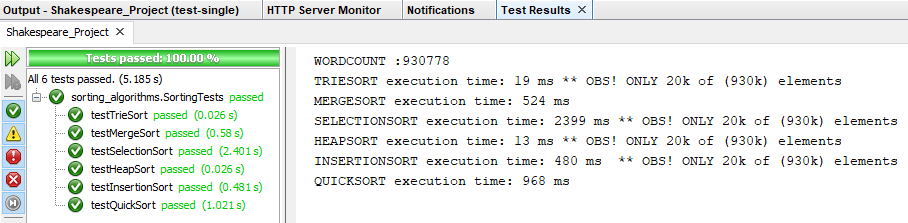
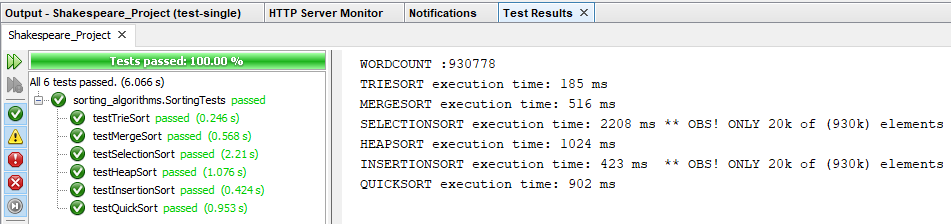
updated readme, screenshot & changed heap and trie sorts to sort complete works

diff --git a/test/sorting_algorithms/SortingTests.java b/test/sorting_algorithms/SortingTests.java
@@ -73,7 +73,7 @@ public class SortingTests {
         System.out.println("INSERTIONSORT execution time: " + (after - before) + " ms  ** OBS! ONLY 20k of (930k) elements");
         assertTrue(this.isSorted(test));
     }
-    
+
     /**
      * Test of QuickSort
      */
@@ -86,25 +86,27 @@ public class SortingTests {
         System.out.println("SELECTIONSORT execution time: " + (after - before) + " ms ** OBS! ONLY 20k of (930k) elements");
         assertTrue(this.isSorted(wordsCopy));
     }
-    
+
     @Test
     public void testHeapSort() {
-        String[] wordsCopy = Arrays.copyOfRange(words.clone(), 0, 20000);
+        String[] wordsCopy = words.clone();
         long before = System.currentTimeMillis();
         HeapSort.sort(wordsCopy);
         long after = System.currentTimeMillis();
-        System.out.println("HEAPSORT execution time: " + (after - before) + " ms ** OBS! ONLY 20k of (930k) elements");
+        System.out.println("HEAPSORT execution time: " + (after - before) + " ms");
+//        System.out.println("HEAPSORT execution time: " + (after - before) + " ms ** OBS! ONLY 20k of (930k) elements");
         assertTrue(this.isSorted(wordsCopy));
     }
-    
+
     @Test
     public void testTrieSort() {
-        String[] wordsCopy = Arrays.copyOfRange(words.clone(), 0, 20000);
+        String[] wordsCopy = words.clone();
         TrieSort ts = new TrieSort();
         long before = System.currentTimeMillis();
         String[] wordsSorted = ts.sort(wordsCopy);
         long after = System.currentTimeMillis();
-        System.out.println("TRIESORT execution time: " + (after - before) + " ms ** OBS! ONLY 20k of (930k) elements");
+        System.out.println("TRIESORT execution time: " + (after - before) + " ms");
+//        System.out.println("TRIESORT execution time: " + (after - before) + " ms ** OBS! ONLY 20k of (930k) elements");
         assertTrue(this.isSorted(wordsSorted));
     }
 

diff --git a/README.md b/README.md
@@ -6,7 +6,7 @@ https://datsoftlyngby.github.io/soft2020spring/resources/d34f80c6-01-miniproject
 
 Executing SortingTests.java that demo's our Triesort, Mergesort, Selectionsort, Heapsort, Insertionsort and Quicksort algorithms, when used to sort Shakespeare’s complete works.
 
-Note that Triesort, SelectionSort, Heapsort and Insertionsort results are for the sorting of a subset of words (20k of 930k), as they are very slow. They are included this way to show that they actually work.
+Note that SelectionSort and Insertionsort results are for the sorting of a subset of words (20k of 930k), as they are very slow. They are included this way to show that they actually work.
 
 Screenshot from IDE:
 ![Screenshot](sortingtests.png)
@@ -14,12 +14,12 @@ Screenshot from IDE:
 Results:
 ````
 WORDCOUNT :930778
-TRIESORT execution time: 15 ms ** OBS! ONLY 20k of (930k) elements
-MERGESORT execution time: 536 ms
-SELECTIONSORT execution time: 2392 ms ** OBS! ONLY 20k of (930k) elements
-HEAPSORT execution time: 12 ms ** OBS! ONLY 20k of (930k) elements
-INSERTIONSORT execution time: 488 ms  ** OBS! ONLY 20k of (930k) elements
-QUICKSORT execution time: 997 ms
+TRIESORT execution time: 185 ms
+MERGESORT execution time: 516 ms
+SELECTIONSORT execution time: 2208 ms ** OBS! ONLY 20k of (930k) elements
+HEAPSORT execution time: 1024 ms
+INSERTIONSORT execution time: 423 ms  ** OBS! ONLY 20k of (930k) elements
+QUICKSORT execution time: 902 ms
 ````
 
 
